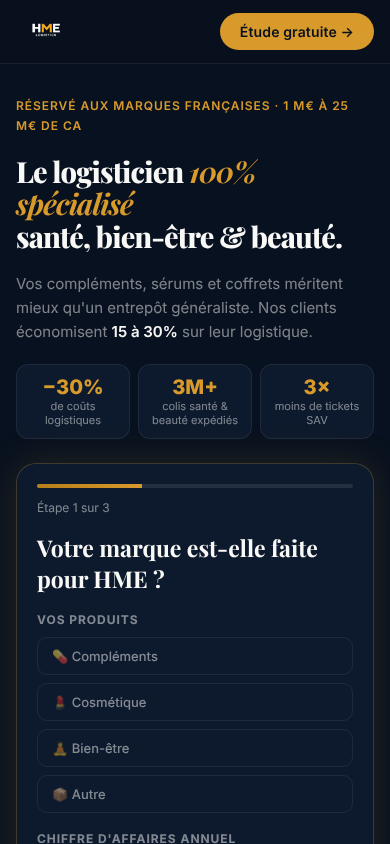
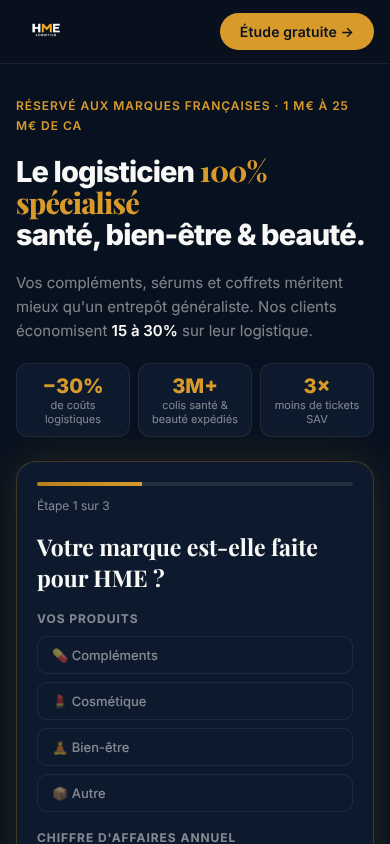
Align landing page title typography with the site hero
Claude-Session: https://claude.ai/code/session_01TfUhFkv6RYyEVu2ePpGVsp

diff --git a/lp.html b/lp.html
@@ -57,7 +57,7 @@
 
             <!-- Étape 1 : la marque -->
             <fieldset class="lp-step" data-step="1">
-              <legend class="lp-card-title">Votre marque est-elle faite pour HME ?</legend>
+              <legend class="lp-card-title">Votre marque est-elle faite pour HME&nbsp;?</legend>
 
               <div class="diag-question">
                 <label class="diag-label">Vos produits</label>
@@ -92,7 +92,7 @@
 
             <!-- Étape 2 : le projet -->
             <fieldset class="lp-step" data-step="2" hidden>
-              <legend class="lp-card-title">Où en est votre logistique ?</legend>
+              <legend class="lp-card-title">Où en est votre logistique&nbsp;?</legend>
 
               <div class="diag-question">
                 <label class="diag-label">Aujourd'hui, vous expédiez…</label>

diff --git a/lp.css b/lp.css
@@ -15,11 +15,11 @@
   font-size: 12px; font-weight: 600; letter-spacing: 0.08em; text-transform: uppercase;
   color: var(--gold); margin-bottom: 18px;
 }
+/* Mêmes codes que .hero-title du site : Inter 800, accent <em> du site */
 .lp-title {
-  font-family: 'Playfair Display', serif; font-size: 46px; line-height: 1.12;
+  font-size: 46px; font-weight: 800; line-height: 1.08; letter-spacing: -0.03em;
   color: var(--cream); margin-bottom: 20px;
 }
-.lp-title em { color: var(--gold); font-style: italic; }
 .lp-sub { font-size: 17px; line-height: 1.6; color: var(--muted); margin-bottom: 32px; }
 .lp-sub strong { color: var(--cream); }
 
